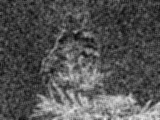
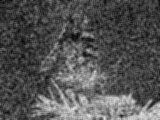
change method to avoid division by near-zero

Changed region(s): [[0.0, 0.0, 1.0, 1.0], [0.9688, 0.1, 1.0, 0.125], [0.1875, 0.975, 0.2188, 1.0]]

diff --git a/dip2_py/dip2.py b/dip2_py/dip2.py
@@ -159,8 +159,8 @@ def nlm_filter(src: np.ndarray, search_size: int, sigma: float) -> np.ndarray:
     filtered_img = np.zeros((height, width), dtype=np.uint8)
 
     denom = 2.0 * (sigma * sigma)
-    eps = 1e-8 #to avoid 0
-    # patch_center_pos = int(patch_size/2)
+    eps_small = 1e-6
+    eps_div = 1e-8 #to avoid 0 division
 
     # iterate over image
     search_window_pad_size = int(patch_size/2)
@@ -190,15 +190,18 @@ def nlm_filter(src: np.ndarray, search_size: int, sigma: float) -> np.ndarray:
                 for x_s in range(search_size):
                     # todo
                     patch = padded_search_window[y_s:(y_s+patch_size), x_s:(x_s+patch_size)]
-
                     patch_mean = patch.mean()
                     distance = (patch_mean - center_patch_mean) ** 2
                     weight = np.exp(-distance/ denom)
                     weight_sum += weight
                     weighted_pixel_sum += weight * padded_search_window[y_s + patch_center, x_s + patch_center]
 
-            filtered_img[y,x] = weighted_pixel_sum / (weight_sum + eps)
+            # filtered_img[y,x] = weighted_pixel_sum / (weight_sum + eps)
             # filtered_img[y,x] = weighted_pixel_sum / (weight_sum)
+            if (weight_sum < eps_small) or not np.isfinite(weight_sum):
+                filtered_img[y, x] = padded_search_window[center_pos_y, center_pos_x]
+            else:
+                filtered_img[y, x] = weighted_pixel_sum / weight_sum
 
     return np.array(filtered_img, copy=True)
 
